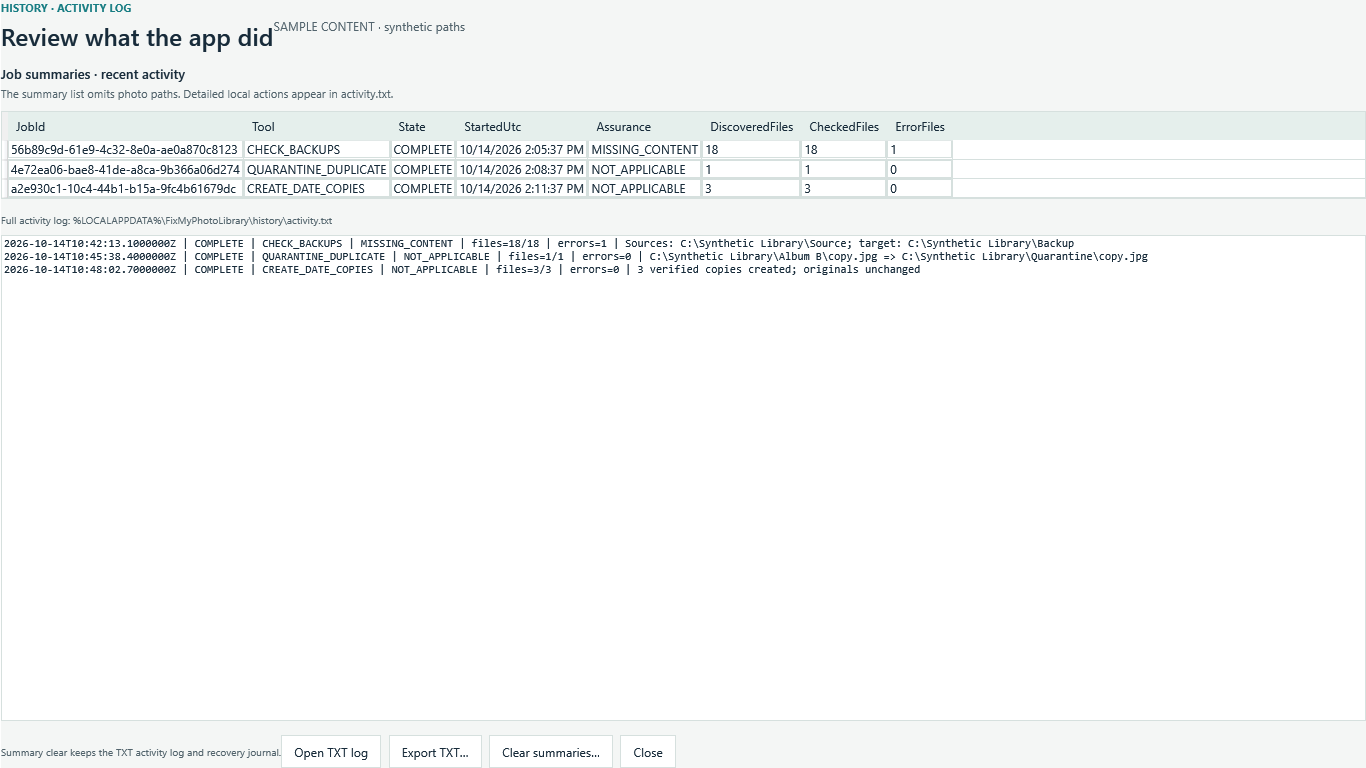
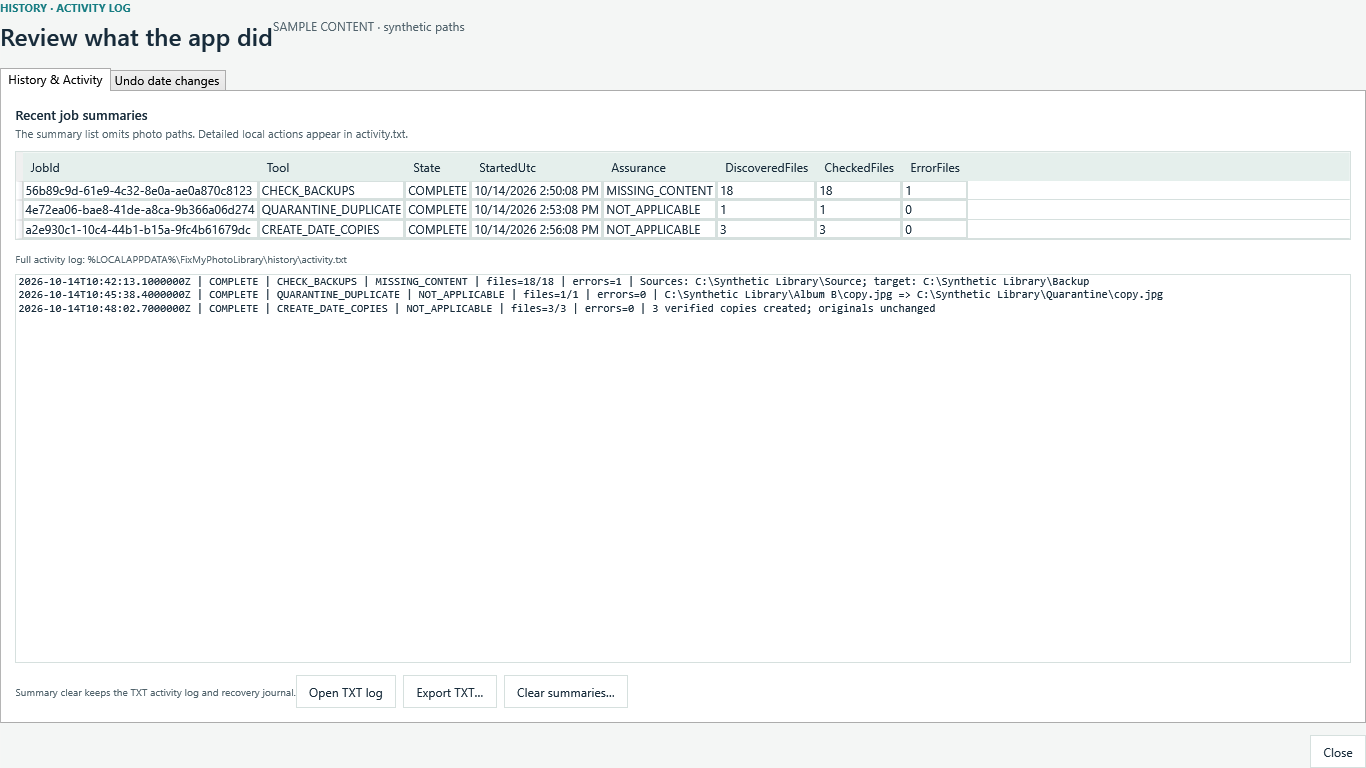
Publish Fix My Photo Library website

diff --git a/faq/index.html b/faq/index.html
@@ -19,6 +19,7 @@
       {"@type":"Question","name":"Does the app support every RAW, HEIC or animated image format?","acceptedAnswer":{"@type":"Answer","text":"No. Image checks depend on codecs available on Windows and use a bounded pixel budget. Unsupported codecs and resource-limited images are reported separately from damaged files."}},
       {"@type":"Question","name":"Can I review a text log of actions the app took?","acceptedAnswer":{"@type":"Answer","text":"Yes. The History screen shows recent job summaries and opens or exports a local activity.txt log with timestamps, outcomes, counts and paths for copy, quarantine, restore and report-export actions. Clearing job summaries does not delete the text log or recovery journal."}},
       {"@type":"Question","name":"Can I choose a dark or light app theme?","acceptedAnswer":{"@type":"Answer","text":"Yes. Choose System, Light or Dark in the app header. The preference is stored locally and Windows high-contrast colors take precedence for accessibility."}}
+      ,{"@type":"Question","name":"Can I recover a damaged photo from a healthy backup?","acceptedAnswer":{"@type":"Answer","text":"If a backup contains a supported healthy image at the matching relative path, you can review a side-by-side preview and create a new hash-verified copy in a separate recovery folder. The damaged source is not replaced. A backup candidate that cannot be fully decoded is not offered as healthy."}}
     ]}]}
   </script>
 </head>
@@ -33,16 +34,17 @@
           <details class="qa-item" id="backup-content" open><summary><h2>How can I verify a photo backup when the filenames are different?</h2></summary><div class="qa-answer"><p>Compare file content rather than filenames. Fix My Photo Library computes SHA-256 for the selected photo files, so byte-identical content can match even after a rename or move. A filename match alone is not proof that two files contain the same data.</p><p>A backup result is marked verified only when enumeration and hashing complete and every unique source content is present. If a file cannot be read, the report stays incomplete. See the <a href="../guides/verify-photo-backup/">step-by-step photo backup verification guide</a>.</p></div></details>
           <details class="qa-item" id="safe-duplicates"><summary><h2>How do I find duplicate photos without permanently deleting the wrong one?</h2></summary><div class="qa-answer"><p>The duplicate tool groups exact byte-for-byte matches. It does not claim two similar-looking photos are duplicates. You review the group, pin the photo to keep, and choose which copies to quarantine.</p><p>Quarantine is a separate folder with a recovery manifest. Restore rechecks the expected hash and chooses a new name if the original destination already exists. Read the <a href="../guides/find-duplicate-photos/">safe exact-duplicate review guide</a>.</p></div></details>
           <details class="qa-item" id="broken-photo"><summary><h2>Can Windows tell whether a JPEG or PNG is damaged?</h2></summary><div class="qa-answer"><p>Windows image codecs can fully decode some supported image files and fail on others. A failed decode is a diagnostic signal, not a repair: the tool cannot reconstruct pixels that are missing from a damaged file.</p><p>PNG chunk structure and CRC values are checked before decoding. Unsupported codecs, inaccessible files and the image resource limit are reported separately so they are not mislabeled as corruption.</p></div></details>
-          <details class="qa-item" id="camera-dates"><summary><h2>Why is a camera date different from a Windows photo file date?</h2></summary><div class="qa-answer"><p>EXIF capture time is embedded metadata; Windows Created and Modified are filesystem timestamps. They can disagree. EXIF wall-clock dates may also omit a timezone offset, making conversion to UTC ambiguous.</p><p>The app previews the date and offset. It does not guess a missing timezone. Date corrections create copies and set the selected Windows timestamps; the original file and embedded EXIF are not rewritten. More detail is in the <a href="../guides/fix-photo-dates/">EXIF photo-date guide</a>.</p></div></details>
+          <details class="qa-item" id="camera-dates"><summary><h2>Why is a camera date different from a Windows photo file date?</h2></summary><div class="qa-answer"><p>EXIF capture time is embedded metadata; Windows Created and Modified are filesystem timestamps. They can disagree. EXIF wall-clock dates may also omit a timezone offset, making conversion to UTC ambiguous.</p><p>The app previews the date and offset. It does not guess a missing timezone. Corrected copies are the default. An explicitly confirmed in-place filesystem timestamp option has a journal-based Undo while content and timestamps still match; embedded EXIF is never rewritten. See the <a href="../guides/fix-photo-dates/">EXIF photo-date guide</a>.</p></div></details>
           <details class="qa-item" id="privacy"><summary><h2>Are selected photos uploaded or sent to a cloud service?</h2></summary><div class="qa-answer"><p>No photo contents are uploaded by the app. Scans, hashes, decoding, copies and quarantine operations are performed locally. Reports are saved only in the folder you choose. Job history stores a local summary; the activity log and action journal retain operation paths needed for review and recovery.</p><p>See the <a href="../privacy/">app privacy notice</a>. Microsoft Store licensing and Windows platform services are separate from photo processing.</p></div></details>
           <details class="qa-item" id="formats"><summary><h2>Does it support every RAW, HEIC, WebP or animated photo format?</h2></summary><div class="qa-answer"><p>No. Image inspection depends on codecs installed on that Windows PC. Animated frames are checked within a fixed aggregate pixel budget. If a codec is unavailable or a file exceeds the decode limit, the app reports that separately from a failed supported-format decode.</p><p>Install codecs only from a source you trust. The app does not download a codec or upload the photo to inspect it.</p></div></details>
           <details class="qa-item" id="partial-backup"><summary><h2>What should I do if the backup report says “incomplete”?</h2></summary><div class="qa-answer"><p>Do not treat an incomplete scan as verified. Review access-denied, missing, changed-during-scan and cloud-placeholder rows. Make the source and backup available, then run the check again. The app can offer to copy content it confirmed missing, but it rechecks source hashes and never overwrites an existing file.</p></div></details>
           <details class="qa-item" id="action-log"><summary><h2>Can I review a text log of actions the app took?</h2></summary><div class="qa-answer"><p>Yes. History shows recent job summaries and opens or exports a local <code>activity.txt</code> log with timestamps, outcomes, counts and paths for copy, quarantine, restore and report-export actions. Clearing job summaries does not delete the text log or recovery journal.</p></div></details>
           <details class="qa-item" id="app-theme"><summary><h2>Can I choose a dark or light app theme?</h2></summary><div class="qa-answer"><p>Yes. Choose System, Light or Dark in the app header. The preference is stored locally; Windows high-contrast colors take precedence.</p></div></details>
+          <details class="qa-item" id="recover-damaged"><summary><h2>Can I recover a damaged photo from a healthy backup?</h2></summary><div class="qa-answer"><p>If the backup contains a supported healthy image at the same relative path, select the damaged result and review the side-by-side preview. The app can create a new hash-verified copy in a separate recovery folder. It never replaces the damaged original; it does not call an undecodable or unsupported file healthy.</p></div></details>
         </div>
         <div class="page-cta"><h2>Want the detailed steps?</h2><p>Read the guides for <a href="../guides/verify-photo-backup/">hash-based backup checks</a>, <a href="../guides/find-duplicate-photos/">reversible duplicate review</a> and <a href="../guides/fix-photo-dates/">EXIF dates and timezone offsets</a>.</p></div>
       </article>
-      <aside class="article-aside"><h2>On this page</h2><nav aria-label="FAQ topics"><a href="#backup-content">Backup verification</a><a href="#safe-duplicates">Exact duplicates</a><a href="#broken-photo">Broken-image checks</a><a href="#camera-dates">Camera dates</a><a href="#privacy">Privacy</a><a href="#formats">Image formats</a><a href="#partial-backup">Incomplete scans</a><a href="#action-log">Activity log</a><a href="#app-theme">App theme</a></nav></aside>
+      <aside class="article-aside"><h2>On this page</h2><nav aria-label="FAQ topics"><a href="#backup-content">Backup verification</a><a href="#safe-duplicates">Exact duplicates</a><a href="#broken-photo">Broken-image checks</a><a href="#camera-dates">Camera dates</a><a href="#privacy">Privacy</a><a href="#formats">Image formats</a><a href="#partial-backup">Incomplete scans</a><a href="#recover-damaged">Recover from backup</a><a href="#action-log">Activity log</a><a href="#app-theme">App theme</a></nav></aside>
     </section>
   </main>
   <footer class="site-footer"><div class="footer-main section-wrap"><a class="brand brand-footer" href="../"><img src="../assets/favicon.svg" alt="" width="36" height="36"><span>FIX MY<br>PHOTO LIBRARY</span></a><p>Answers based on the current application behavior.<br>Store release and listing are still pending.</p><nav aria-label="Footer"><a href="../">Home</a><a href="../privacy/">Privacy</a><a href="../guides/verify-photo-backup/">Backup guide</a></nav></div><div class="footer-bottom section-wrap"><span>© 2026 Fix My Photo Library</span><span>Product status: not yet available in Microsoft Store.</span><a href="#main">Back to top ↑</a></div></footer>

diff --git a/guides/fix-photo-dates/index.html b/guides/fix-photo-dates/index.html
@@ -13,7 +13,7 @@
 <section class="article-layout section-wrap"><article class="article-body"><p class="privacy-updated">A guide to photo timestamps and explicit timezone offsets</p>
   <h2 id="three-dates">Three different date concepts</h2><ul><li><b>EXIF DateTimeOriginal:</b> the camera’s recorded wall-clock capture time.</li><li><b>EXIF OffsetTimeOriginal:</b> an optional UTC offset that makes the wall-clock time unambiguous.</li><li><b>Windows Created and Modified:</b> filesystem timestamps shown by Windows and changed by copy, restore and edit operations.</li></ul><p>Changing one does not automatically rewrite the others. Fix My Photo Library reads EXIF evidence for a preview but its date operation changes selected Windows timestamps on a new copy. It does not rewrite the original photo’s embedded EXIF.</p>
   <h2 id="offsets">Why timezone offsets matter</h2><p>The string <code>2021:06:18 11:42:30</code> says what a camera clock displayed, but without an offset it does not say whether that was UTC, British Summer Time, or another local timezone. Converting it to UTC without context can shift a photo by hours.</p><div class="article-callout"><strong>No offset in the metadata?</strong> The app labels the time as needing a timezone decision. Embedded-date copy mode skips files without a valid explicit offset; alternatively, a user can choose an explicit offset and date rule for a batch.</div>
-  <h2 id="copy-first">Why make a corrected copy?</h2><p>A copy-first workflow leaves the source image available for comparison. The app rechecks the source hash before copying, verifies the copy’s content, then sets the requested Windows Created and/or Modified dates. Existing names are not overwritten.</p><p>After reviewing the new copy, you can choose what to keep. The tool does not claim to alter camera metadata or repair the image itself.</p>
+  <h2 id="copy-first">Why make a corrected copy?</h2><p>A copy-first workflow leaves the source image available for comparison. The app rechecks the source hash before copying, verifies the copy’s content, then sets the requested Windows Created and/or Modified dates. Existing names are not overwritten.</p><p>Advanced users can explicitly choose an in-place Windows timestamp change after a separate warning. The action journal records old/new timestamps and a hash; History offers Undo only while content and timestamp values still match. The tool never rewrites camera metadata.</p>
   <h2 id="review">Before you change dates</h2><ol><li>Check which date the camera embedded and whether an offset is present.</li><li>Compare against a trusted source such as an original export or contemporaneous record.</li><li>Use a date with a clear timezone offset; do not assume the current Windows timezone matches an old trip.</li><li>Review the destination and generated copy before reorganising or removing anything.</li></ol>
   <div class="page-cta"><h2>Checking image health too?</h2><p>Read the <a href="../../faq/#broken-photo">broken-photo FAQ</a> to understand supported codecs and what a failed decode can—and cannot—tell you.</p></div>
 </article><aside class="article-aside"><h2>In this guide</h2><nav aria-label="Guide sections"><a href="#three-dates">EXIF vs file dates</a><a href="#offsets">Timezone offsets</a><a href="#copy-first">Corrected copies</a><a href="#review">Review checklist</a><a href="../../faq/#camera-dates">Photo date FAQs</a></nav></aside></section></main>

diff --git a/index.html b/index.html
@@ -135,6 +135,7 @@
         <figure class="gallery-small reveal"><button class="image-expand" type="button" data-image-preview data-preview-caption="Activity history example · synthetic paths" aria-label="Expand activity log screenshot"><img src="assets/screenshots/07-activity-log.png" alt="Fix My Photo Library History and Activity Log with synthetic job summaries, TXT activity and example source-to-quarantine paths" width="1366" height="768" loading="lazy"><span class="expand-cue" aria-hidden="true">Expand image ↗</span></button><figcaption><b>Review the activity</b><span>Job summaries plus a readable, exportable TXT action log.</span></figcaption></figure>
         <figure class="gallery-small reveal reveal-late"><button class="image-expand" type="button" data-image-preview data-preview-caption="Dark theme example · generated fixture data" aria-label="Expand dark theme screenshot"><img src="assets/screenshots/08-dark-theme.png" alt="Fix My Photo Library date review in the user-selectable dark theme, showing timezone evidence" width="1366" height="768" loading="lazy"><span class="expand-cue" aria-hidden="true">Expand image ↗</span></button><figcaption><b>Choose your theme</b><span>System, Light or Dark, with high-contrast colors respected.</span></figcaption></figure>
         <figure class="gallery-small reveal"><button class="image-expand" type="button" data-image-preview data-preview-caption="Backup recovery review · generated damaged and healthy PNG fixtures" aria-label="Expand damaged photo recovery review screenshot"><img src="assets/screenshots/09-backup-recovery.png" alt="Fix My Photo Library side-by-side review of a damaged source PNG and verified healthy backup before creating a recovery copy" width="1366" height="768" loading="lazy"><span class="expand-cue" aria-hidden="true">Expand image ↗</span></button><figcaption><b>Recover from a healthy backup</b><span>Compare a damaged source and candidate, then create a verified copy.</span></figcaption></figure>
+        <figure class="gallery-small reveal reveal-late"><button class="image-expand" type="button" data-image-preview data-preview-caption="Date rule selection · synthetic sample timestamp" aria-label="Expand copy-first and in-place date rule screenshot"><img src="assets/screenshots/10-date-rule.png" alt="Fix My Photo Library date rule preview showing copy-first behavior and an explicitly confirmed in-place timestamp option with conditional Undo" width="1366" height="768" loading="lazy"><span class="expand-cue" aria-hidden="true">Expand image ↗</span></button><figcaption><b>Copy first, or choose in-place carefully</b><span>In-place timestamps have a journal and conditional Undo.</span></figcaption></figure>
       </div>
     </section>
 
